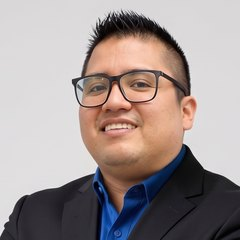
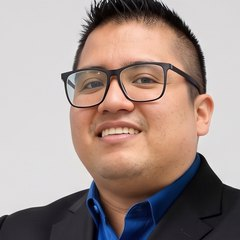
Autoría: foto del autor y enlace directo al perfil de LinkedIn
Claude-Session: https://claude.ai/code/session_017UGVRh12JVq45wUQ75Nv4M

diff --git a/docs/index.html b/docs/index.html
@@ -105,7 +105,7 @@ footer{margin-top:20px;color:var(--ink-3);font-size:12.5px;line-height:1.7}
       <div class="autor">
         <img src="img/autor.jpg" alt="Foto de Mg. Brandon W. Pérez Flores" width="52" height="52">
         <div><div class="nm">Mg. Pérez Flores, Brandon W.</div><div class="rl">Autor · Ing. Ambiental y en Ecoturismo · GreenPulse SAC</div></div>
-        <a class="li" id="linkedin" href="https://www.linkedin.com/search/results/people/?keywords=Brandon%20W.%20P%C3%A9rez%20Flores" target="_blank" rel="noopener" aria-label="Perfil de LinkedIn de Brandon W. Pérez Flores" title="LinkedIn"><svg viewBox="0 0 24 24" aria-hidden="true"><path d="M4.98 3.5A2.5 2.5 0 1 1 5 8.5a2.5 2.5 0 0 1-.02-5zM3 9.75h4V21H3zM9.5 9.75h3.83v1.54h.06c.53-1 1.84-2.06 3.79-2.06 4.05 0 4.8 2.67 4.8 6.13V21h-4v-4.97c0-1.19-.02-2.71-1.65-2.71-1.65 0-1.9 1.29-1.9 2.62V21h-4z"/></svg></a>
+        <a class="li" id="linkedin" href="https://www.linkedin.com/in/brandon-perez-flores/" target="_blank" rel="noopener" aria-label="Perfil de LinkedIn de Brandon W. Pérez Flores" title="LinkedIn"><svg viewBox="0 0 24 24" aria-hidden="true"><path d="M4.98 3.5A2.5 2.5 0 1 1 5 8.5a2.5 2.5 0 0 1-.02-5zM3 9.75h4V21H3zM9.5 9.75h3.83v1.54h.06c.53-1 1.84-2.06 3.79-2.06 4.05 0 4.8 2.67 4.8 6.13V21h-4v-4.97c0-1.19-.02-2.71-1.65-2.71-1.65 0-1.9 1.29-1.9 2.62V21h-4z"/></svg></a>
       </div>
       <div class="stamp" id="stamp">Cargando…</div>
     </div>
@@ -156,7 +156,7 @@ footer{margin-top:20px;color:var(--ink-3);font-size:12.5px;line-height:1.7}
 
   <footer>
     Fuentes: NASA FIRMS (VIIRS 375 m, NRT) · SERNANP – GeoServicios (ANP de administración nacional, zonas reservadas, ACR, ACP y zonas de amortiguamiento) · Límites departamentales: INEI vía <a href="https://github.com/juaneladio/peru-geojson">juaneladio/peru-geojson</a> · Mapa base © CARTO © OpenStreetMap.<br>
-    Herramientas: Python (pandas, scikit-learn), GitHub Actions, MapLibre GL. Código y datos: <a id="repo" href="#">repositorio en GitHub</a>. Autor: <b style="color:var(--ink-2)">Mg. Pérez Flores, Brandon W.</b> · GreenPulse SAC · <a href="https://www.linkedin.com/search/results/people/?keywords=Brandon%20W.%20P%C3%A9rez%20Flores" target="_blank" rel="noopener">LinkedIn</a>.
+    Herramientas: Python (pandas, scikit-learn), GitHub Actions, MapLibre GL. Código y datos: <a id="repo" href="#">repositorio en GitHub</a>. Autor: <b style="color:var(--ink-2)">Mg. Pérez Flores, Brandon W.</b> · GreenPulse SAC · <a href="https://www.linkedin.com/in/brandon-perez-flores/" target="_blank" rel="noopener">LinkedIn</a>.
   </footer>
 </div>
 <div class="tip" id="tip"></div>
